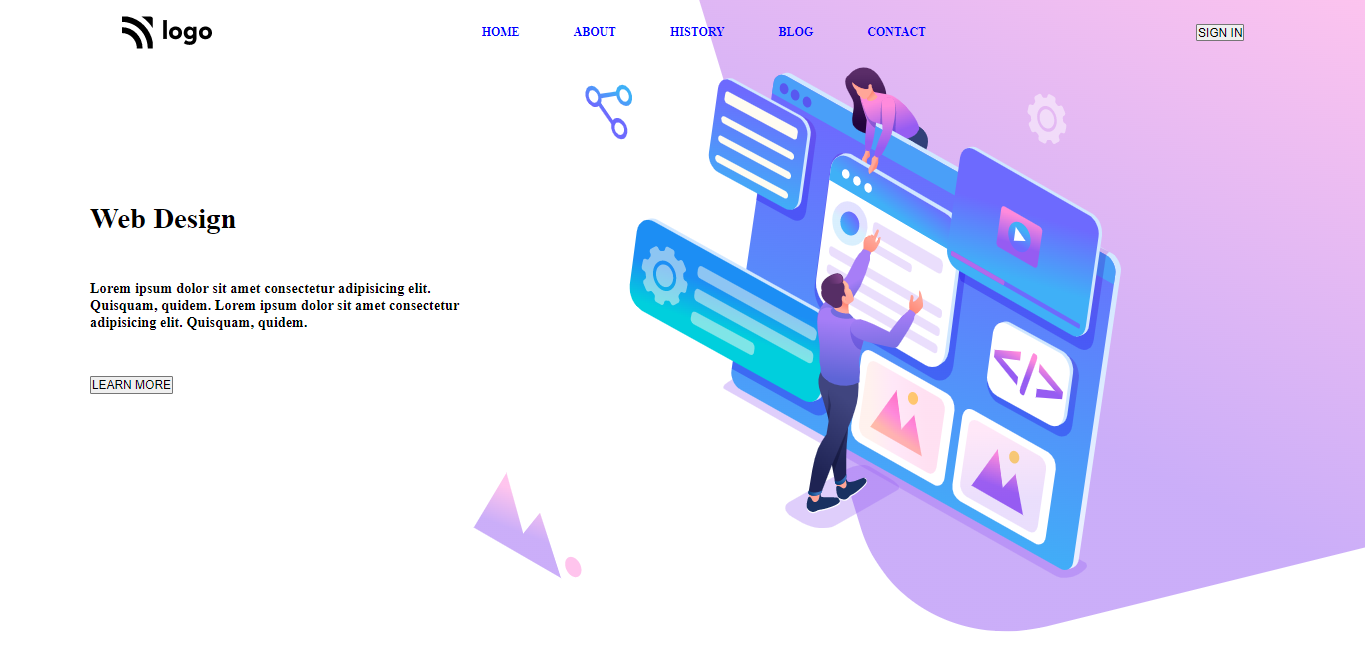
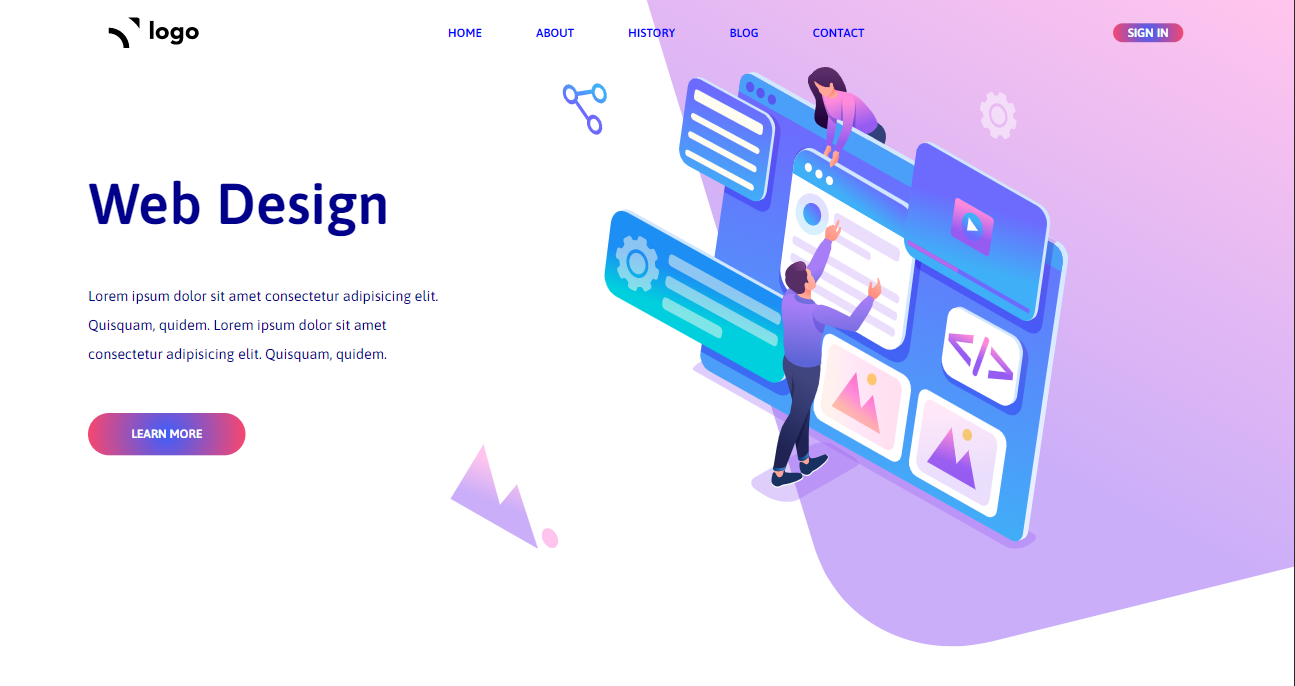
add screenshot and deployed link

diff --git a/Readme.md b/Readme.md
@@ -1,13 +1,173 @@
-# Hi , My name is vimal kumar.
+<div id="top"></div>
+
+<!-- PROJECT LOGO -->
+<br />
+<div align="center">
+    <a>
+    <img src="https://learncodeonline.in/mascot.png" alt="Logo" width="80">
+    </a>
+  
 
 
-## This is eighth web page i have created.
-It took me 6 hours to complete. 
-### I have learnt following things while creating this project.
-1. Css positions
-2. Gradients
+<h3 align="center">web design landing page
+</h3>
 
-[![main page clickable image](./images/web-design-landing-page.png "main page")](https://webdesigninglandingpage.netlify.app/)
+ <p align="center">
+    <br />
+    <a href="https://scrypto-landing-page.netlify.app/">Click here to view live project</a>
+  </p>
+</div>
+
+<details>
+<summary><b>Table of Contents<b></summary>
+<ol>
+<li><a href="#project-introduction">Project Introduction</li>
+<li><a href="#screenshots">Screenshots</li>
+<li><a href="#tech-stack">Tech Stack</li>
+<li><a href="#deployment">Deployment</li>
+<li><a href="#lessons-learned">Lessons Learned</li>
+<li><a href="#time-spent">Time Taken</li>
+<li><a href="#connect-with-me">Connect With Me</li>
+</ol>
+</details>
+
+<!-- project Introduction -->
+# Project Introduction
+
+## web design landing page
+  ###### In this project i have tried to create a web design landing page.
+
+  ###### The design was provided to me and i tried to make it like design.
+
+<!-- screenshots -->
+
+## Screenshots
+
+[![main page clickable image](./screenshots/main-page.png)](https://web-design-landing-pages.netlify.app/)
 
 
-  ##### [Click here to view live project](https://webdesigninglandingpage.netlify.app/ "click here to view page") 
+
+<!-- Tech stack -->
+
+## 👨💻 Tech Stack
+
+**Technologies used** 
+1. ![Html-5][html-shield]
+2. ![css3][css-shield]
+
+**Tools used**
+
+1. ![google-chrome][chrome-shield]
+2. ![vscode][vscode-shield]
+3. ![git][git-shield]
+4. ![github][github-shield]
+5. ![netlify][netlify-shield]
+
+<!-- Deployment -->
+
+## ⚙ Deployment
+
+1. live one **Netlify**
+
+[![netlify][netlify-shield]][project-url]
+
+2. **source code**
+
+[![github][github-shield]][source-code]
+
+<!-- lessons learned -->
+
+## <img src="https://img.icons8.com/external-itim2101-flat-itim2101/30/000000/external-lesson-online-education-itim2101-flat-itim2101-2.png"/> Lessons Learned
+
+
+- ✔ How to use `Positions`.
+- ✔ How to set background images.
+- ✔ Css Media Queries.
+
+<!-- time spent -->
+
+## 🕒 Time Spent
+
+- It took me `10 hours` to complete this project.
+
+- I spent a most time on making web page responsive.
+
+<!-- connect with me -->
+## 🤝 Connect with me.
+
+<!-- About me -->
+### 🚀 About Me
+- I'm an aspiring **full stack developer...**
+
+- I always try to keep myself updated and always curious to **Learn.**
+
+<!-- skils -->
+
+### 🛠 Skills
+
+ ![Html-5][html-shield] ![css3][css-shield] ![tailwindcsss][tail-shield] ![js][js-shield] ![reactjs][react-shield] ![node][node-shield] ![monogo][mongo-shield] ![git][git-shield]
+
+<!-- socials -->
+
+### 🔗 Socials
+
+ ![name][name-shield]
+ [![email][email-shield]][e-mail]
+ [![linkedin][linkedin-shield]][linkedin-url]
+ [![instagram][instagram-shield]][instagram-url]
+
+<!-- Back to Top -->
+
+[![Product Name Screen Shot][backtotop-shield]](#top)
+
+<!-- Tools and Technologies -->
+
+[html-shield]: https://img.shields.io/badge/html5-%23E34F26.svg?style=for-the-badge&logo=html5&logoColor=white
+
+[css-shield]: https://img.shields.io/badge/css3-%23E326.svg?style=for-the-badge&logo=css3&logoColor=white
+
+[js-shield]: https://img.shields.io/badge/JavaScript-%23EF2.svg?style=for-the-badge&logo=javascript&logoColor=white
+
+[react-shield]: https://img.shields.io/badge/ReactJS-%23E26.svg?style=for-the-badge&logo=react&logoColor=white
+
+[tail-shield]: https://img.shields.io/badge/Tailwindcss-%23E26922.svg?style=for-the-badge&logo=tailwindcss&logoColor=white
+
+[mongo-shield]: https://img.shields.io/badge/MongoDb-%23EF211.svg?style=for-the-badge&logo=mongodb&logoColor=white
+
+[node-shield]: https://img.shields.io/badge/nodejs-%23E11.svg?style=for-the-badge&logo=nodejs&logoColor=white
+
+[Tailwind-CSS]: https://img.shields.io/badge/Tailwind-CSS-blue
+
+[vscode-shield]: https://img.shields.io/badge/Visual%20Studio%20Code-0078d7.svg?style=for-the-badge&logo=visual-studio-code&logoColor=white
+
+[chrome-shield]: https://img.shields.io/badge/Google%20Chrome-4285F4?style=for-the-badge&logo=GoogleChrome&logoColor=white
+
+[netlify-shield]: https://img.shields.io/badge/netlify-%23000000.svg?style=for-the-badge&logo=netlify&logoColor=#00C7B7
+
+[git-shield]: https://img.shields.io/badge/git-%23F05033.svg?style=for-the-badge&logo=git&logoColor=white
+
+[github-shield]: https://img.shields.io/badge/github-%23121011.svg?style=for-the-badge&logo=github&logoColor=white
+
+[backtotop-shield]: https://img.shields.io/badge/Back%20to%20Top-%5E-brightgreen
+
+[instagram-shield]: https://img.shields.io/badge/Instagram-%23E4405F.svg?style=for-the-badge&logo=Instagram&logoColor=white
+
+[linkedin-shield]: https://img.shields.io/badge/-LinkedIn-black.svg?style=for-the-badge&logo=linkedin&colorB=0B5FBB
+
+[name-shield]:https://img.shields.io/badge/NAME-VIMAL%20KUMAR-BLUE
+[email-shield]:https://img.shields.io/badge/E--MAIL-kvimal9560%40gmail.com-important
+
+<!-- Project screenshot -->
+[e-mail]:kvimal@gmail.com
+
+[project-url]:https://web-design-landing-pages.netlify.app/
+
+[source-code]:https://github.com/KRVIMAL/8th-Html-and-Css-project
+
+[instagram-url]: https://www.instagram.com/vimal.eth/
+
+[linkedin-url]: https://www.linkedin.com/in/kr-vimal/
+
+[lesson-img]:https://img.icons8.com/external-itim2101-lineal-color-itim2101/344/external-lesson-online-education-itim2101-lineal-color-itim2101-2.png
+
+<!-- [![portfolio](https://img.shields.io/badge/my_portfolio-000?style=for-the-badge&logo=ko-fi&logoColor=white)](https://katherineoelsner.com/)
